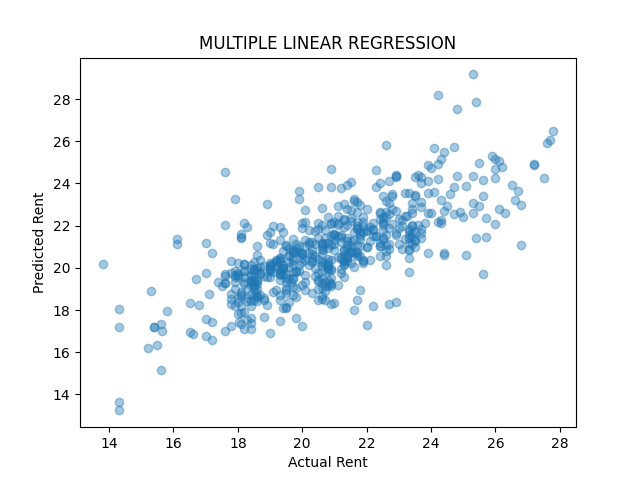
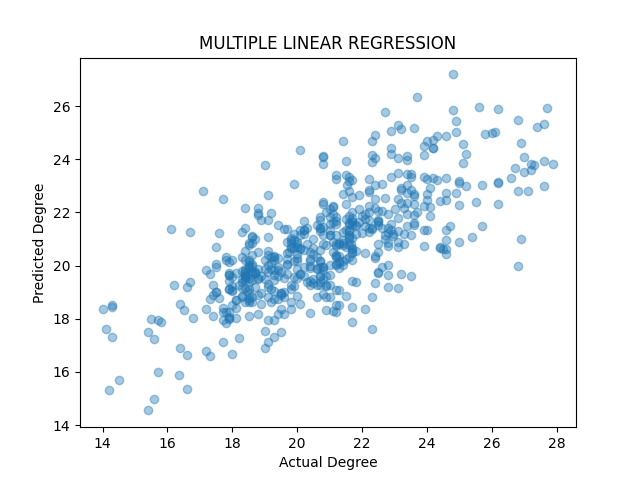
<fix>footnote

diff --git a/data_augmentation.py b/data_augmentation.py
@@ -79,7 +79,7 @@ from sklearn.model_selection import train_test_split
 from sklearn.linear_model import LinearRegression
 
 df = pd.read_csv("augumentationed_data.csv", index_col=None)
-y = pd.read_csv('외기온도.csv', index_col=None)['온도']
+y = pd.read_csv('degree_data.csv', index_col=None)['온도']
 x = df.drop('날짜', axis=1)
 
 x_train, x_test, y_train, y_test = train_test_split(x, y, train_size=0.8, test_size=0.2)
@@ -90,8 +90,8 @@ y_predict = MLR.predict(x_test)
 
 import matplotlib.pyplot as plt
 plt.scatter(y_test, y_predict, alpha=0.4)
-plt.xlabel("Actual Rent")
-plt.ylabel("Predicted Rent")
+plt.xlabel("Actual Degree")
+plt.ylabel("Predicted Degree")
 plt.title("MULTIPLE LINEAR REGRESSION")
 plt.savefig('Result.png')
 
